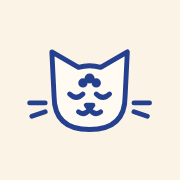
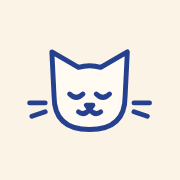
Camillo senza i tre puntini sulla fronte
Claude-Session: https://claude.ai/code/session_01NhHpCtW2m4CPgdNjDRDska

Changed region(s): [[0.4167, 0.3889, 0.5833, 0.5]]

diff --git a/index.html b/index.html
@@ -11,12 +11,12 @@
 <meta name="apple-mobile-web-app-title" content="CAM Kitchen">
 <title>CAM Kitchen</title>
 <link rel="manifest" href="manifest.webmanifest">
-<link rel="icon" href="icons/icon-192.png?v=2">
-<link rel="apple-touch-icon" href="icons/icon-180.png?v=2">
+<link rel="icon" href="icons/icon-192.png?v=3">
+<link rel="apple-touch-icon" href="icons/icon-180.png?v=3">
 <link rel="preconnect" href="https://fonts.googleapis.com">
 <link rel="preconnect" href="https://fonts.gstatic.com" crossorigin>
 <link href="https://fonts.googleapis.com/css2?family=DM+Mono:wght@300;400;500&display=swap" rel="stylesheet">
-<link rel="stylesheet" href="style.css?v=13">
+<link rel="stylesheet" href="style.css?v=14">
 </head>
 <body>
 <aside class="side" aria-label="Sezioni">
@@ -29,7 +29,7 @@
 <div id="sheet"></div>
 <div id="overlay"></div>
 <div class="toast" id="toast" role="status"></div>
-<script type="module" src="js/app.js?v=13"></script>
+<script type="module" src="js/app.js?v=14"></script>
 <script>if('serviceWorker' in navigator){addEventListener('load',()=>navigator.serviceWorker.register('sw.js').catch(()=>{}))}</script>
 </body>
 </html>

diff --git a/sw.js b/sw.js
@@ -1,7 +1,7 @@
 // CAM Kitchen: cache dei file statici. I dati (JSON) sono sempre network-first.
-const V = 'ck-v13';
-const STATIC = ['./', 'index.html', 'style.css?v=13', 'js/app.js?v=13', 'js/store.js', 'js/calc.js', 'js/ui.js', 'js/menu.js', 'js/oggi.js', 'js/piano.js', 'js/other.js', 'js/spesa.js', 'js/ricettario.js',
-  'manifest.webmanifest', 'icons/icon-192.png?v=2', 'icons/icon-180.png'];
+const V = 'ck-v14';
+const STATIC = ['./', 'index.html', 'style.css?v=14', 'js/app.js?v=14', 'js/store.js', 'js/calc.js', 'js/ui.js', 'js/menu.js', 'js/oggi.js', 'js/piano.js', 'js/other.js', 'js/spesa.js', 'js/ricettario.js',
+  'manifest.webmanifest', 'icons/icon-192.png?v=3', 'icons/icon-180.png'];
 
 self.addEventListener('install', e => {
   e.waitUntil(caches.open(V).then(c => c.addAll(STATIC)).then(() => self.skipWaiting()));

diff --git a/js/ui.js b/js/ui.js
@@ -16,7 +16,7 @@ export function mascot(cls = '') {
 <g class="eye"><path d="M23 29 q3 3 6 0 M35 29 q3 3 6 0"/></g>
 <path d="M30.5 34 h3 l-1.5 2 z" fill="#24408E"/><path d="M32 36 q-2.5 3 -5 1 M32 36 q2.5 3 5 1"/>
 <path d="M12 33 h-7 M12 37 l-6 2 M52 33 h7 M52 37 l6 2"/>
-<circle cx="32" cy="22" r="1.2" fill="#24408E"/><circle cx="29" cy="24" r="1" fill="#24408E"/><circle cx="35" cy="24" r="1" fill="#24408E"/>
+
 </g></svg>`;
 }
 
